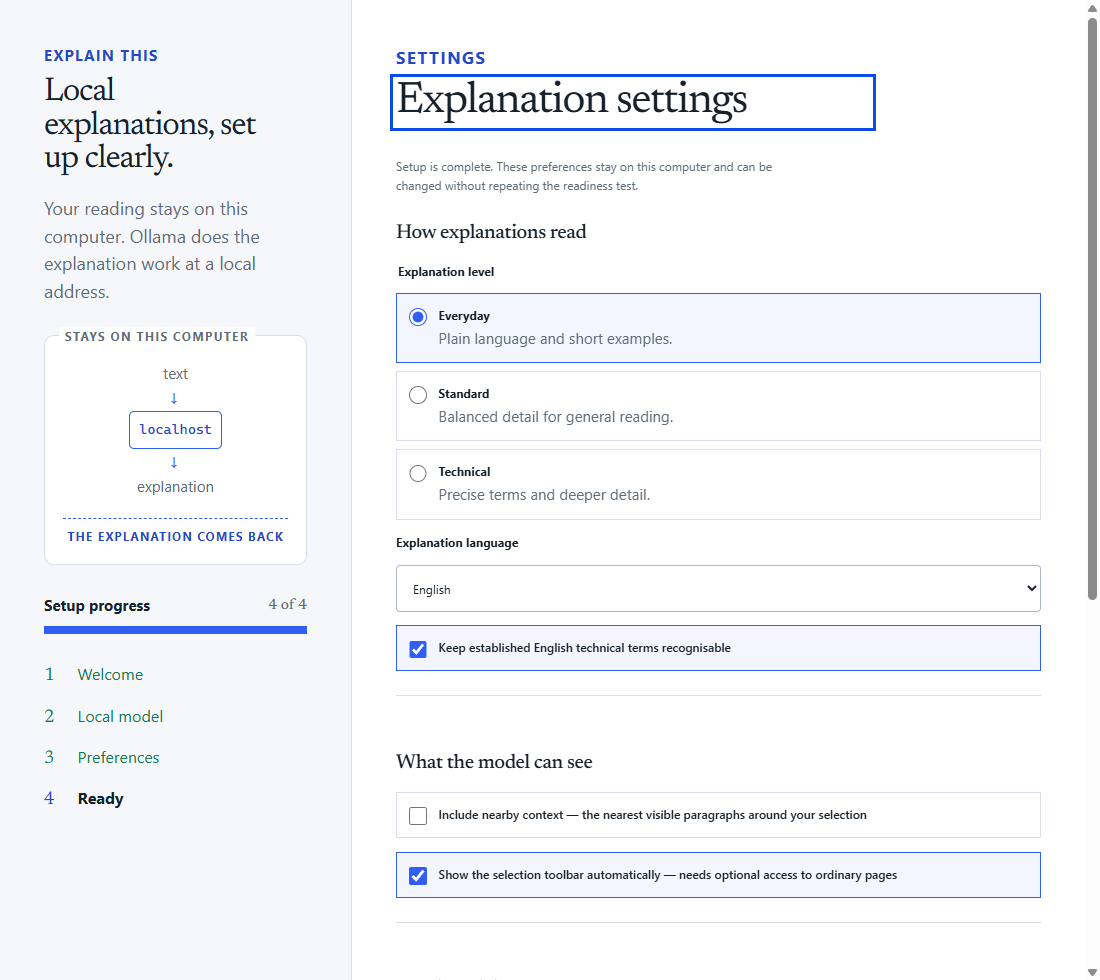
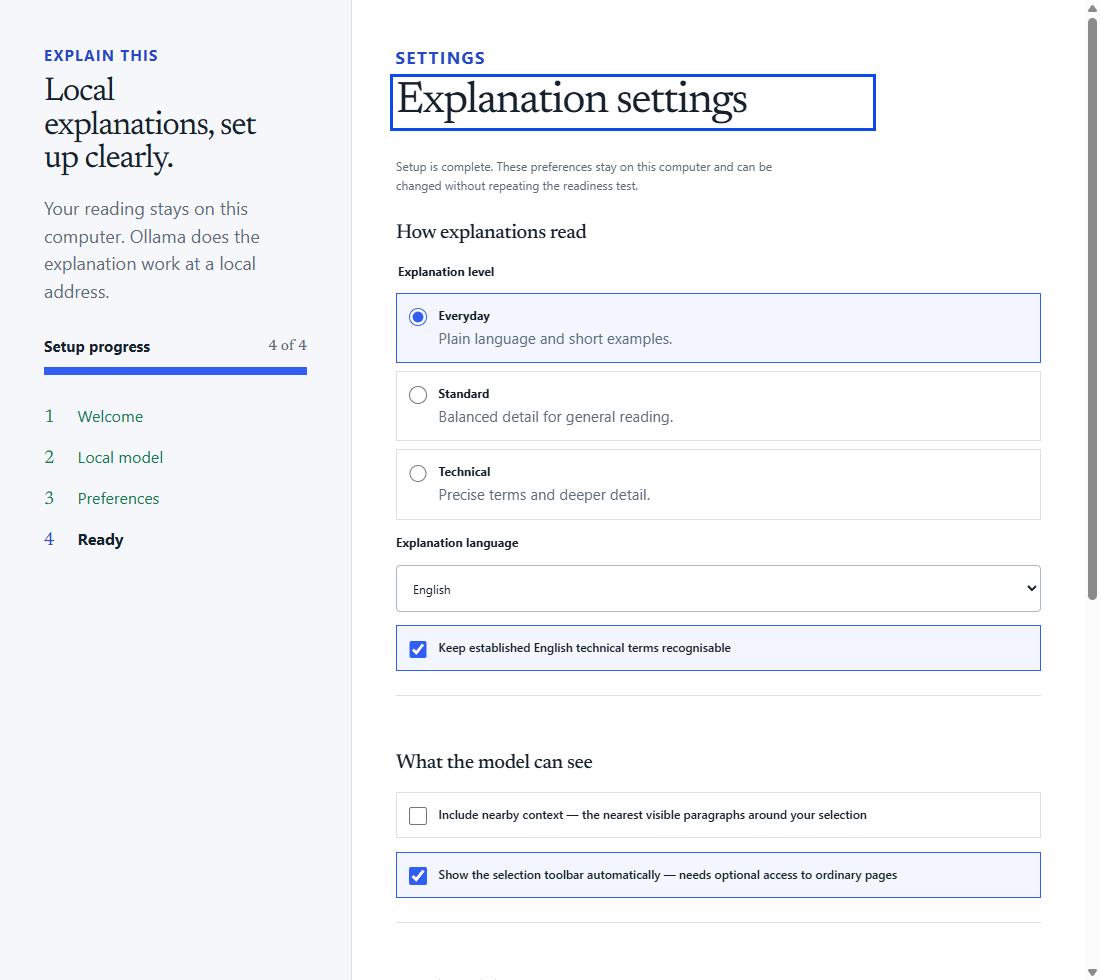
refactor: drop the local-flow diagram and simplify the language separator
The rail no longer draws the text/localhost/explanation flow. The claim it made is
already stated plainly in the sentence directly above it, so the diagram was
repeating a point the reader had just read, and the rail is quieter without it.

Removed with it: the diagram's markup, all six of its style rules, the two
responsive and forced-colours overrides that referenced it, and the
visually-hidden utility it was the only user of. The milestone test no longer
asserts a description that does not exist.

The language picker separates the English name from the endonym with a single
hyphen rather than an em dash, which read as a double dash at the picker's size.

Verified: npm run check exits 0 (555 tests), 22 Playwright tests pass, and the
onboarding screenshot was regenerated.

diff --git a/src/entrypoints/options/options.css b/src/entrypoints/options/options.css
@@ -161,78 +161,6 @@ code {
   line-height: 1.55;
 }
 
-.local-loop {
-  position: relative;
-  display: grid;
-  justify-items: center;
-  gap: 0.3rem;
-  width: 100%;
-  margin: 0;
-  padding: 1.6rem 1.1rem 1.15rem;
-  border: 1px solid var(--line);
-  border-radius: 10px;
-  background: var(--paper);
-  color: var(--slate);
-  font-size: var(--text-sm);
-}
-
-.local-loop::before {
-  content: "stays on this computer";
-  position: absolute;
-  top: -0.55rem;
-  left: 0.85rem;
-  padding: 0 0.4rem;
-  background: var(--paper);
-  color: var(--slate);
-  font-size: var(--text-label);
-  font-weight: 750;
-  letter-spacing: 0.11em;
-  text-transform: uppercase;
-}
-
-.loop-arrow {
-  color: var(--cobalt);
-  font-size: 1.05rem;
-  line-height: 1;
-  transform: rotate(90deg);
-}
-
-.loop-node {
-  white-space: nowrap;
-}
-
-.loop-host {
-  padding: 0.45rem 0.6rem;
-  border: 1px solid var(--cobalt);
-  border-radius: 5px;
-  color: var(--cobalt-dark);
-  background: var(--paper);
-}
-
-/* The return path closes the circuit without crossing the boundary above. */
-.loop-return {
-  justify-self: stretch;
-  margin-top: 0.9rem;
-  padding-top: 0.5rem;
-  border-top: 1px dashed var(--cobalt);
-  color: var(--cobalt-dark);
-  font-size: var(--text-label);
-  font-weight: 700;
-  letter-spacing: 0.09em;
-  text-align: center;
-  text-transform: uppercase;
-}
-
-.visually-hidden {
-  position: absolute;
-  width: 1px;
-  height: 1px;
-  margin: -1px;
-  overflow: hidden;
-  clip: rect(0, 0, 0, 0);
-  white-space: nowrap;
-}
-
 .progress-block {
   display: grid;
   gap: 0.55rem;
@@ -728,10 +656,6 @@ fieldset {
 }
 
 @media (max-width: 480px) {
-  .local-loop {
-    gap: 0.25rem;
-  }
-
   .actions,
   .inline-field {
     align-items: stretch;
@@ -759,8 +683,7 @@ fieldset {
   .choice-row,
   .check-row,
   .readiness-result,
-  .error-notice,
-  .local-loop code {
+  .error-notice {
     border: 1px solid ButtonText;
   }
 

diff --git a/src/entrypoints/options/OptionsApp.tsx b/src/entrypoints/options/OptionsApp.tsx
@@ -62,19 +62,6 @@ export function OptionsApp({ dependencies }: OptionsAppProps) {
           </p>
         </div>
 
-        <figure className="local-loop" aria-hidden="true">
-          <span className="loop-node">text</span>
-          <span className="loop-arrow">→</span>
-          <code className="loop-host">localhost</code>
-          <span className="loop-arrow">→</span>
-          <span className="loop-node">explanation</span>
-          <span className="loop-return">the explanation comes back</span>
-        </figure>
-        <p className="visually-hidden">
-          Your selected text goes to Ollama at localhost on this computer, and the
-          explanation comes back. Nothing leaves this computer.
-        </p>
-
         <ProgressBar
           label="Setup progress"
           max={SETUP_STEPS.length}

diff --git a/src/entrypoints/options/OptionsApp.test.tsx b/src/entrypoints/options/OptionsApp.test.tsx
@@ -197,7 +197,6 @@ describe("options onboarding", () => {
     expect(
       screen.getByRole("progressbar", { name: /setup progress/i }),
     ).toHaveAttribute("max", "4");
-    expect(screen.getByText(/nothing leaves this computer/i)).toBeInTheDocument();
     expect(screen.getAllByRole("listitem").map((item) => item.textContent)).toEqual([
       "1Welcome",
       "2Local model",

diff --git a/src/features/settings/languages.ts b/src/features/settings/languages.ts
@@ -222,5 +222,5 @@ export function resolveLanguageName(value: string): string {
 
 /** The label shown in the picker: English name first, so type-ahead matches it. */
 export function languageLabel(entry: ReadingLanguage): string {
-  return entry.native ? entry.name + " \u2014 " + entry.native : entry.name;
+  return entry.native ? entry.name + " - " + entry.native : entry.name;
 }
